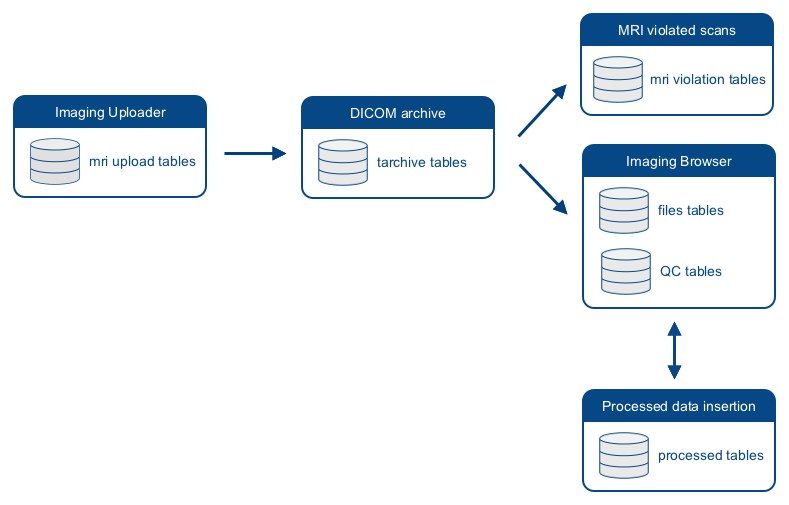
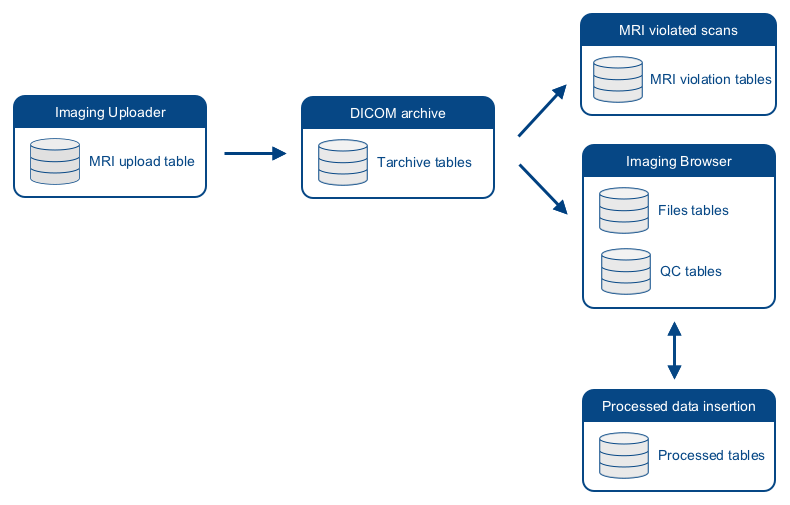
Incorporated some suggestions from KT WG meeting

diff --git a/docs/04-TechnicalInfrastructure.md b/docs/04-TechnicalInfrastructure.md
@@ -44,7 +44,7 @@ The database infrastructure is divided in six main components based on the
 ![overall_DB_structure](images/overall_DB_structure.png)
 
 
-### Imaging uploader database infrastructure
+### MRI upload table
 
 Summary information about the imaging upload status can be found in the 
   mri_upload table. This includes links to the DICOM archive tables (described 
@@ -55,7 +55,7 @@ Summary information about the imaging upload status can be found in the
 ![mri_upload_tables](images/mri_upload_tables.png)
 
 
-### DICOM archive database infrastructure
+### Tarchive tables
 
 The first step to insert a new imaging session into the database is the 
   insertion of the DICOM study. In the database, all information related to a
@@ -87,7 +87,7 @@ Note: the SessionID field of the tarchive table is populated once at least one
   in 4.2.2.
 
 
-### Imaging browser database infrastructure
+### Files tables
 
 The second step to insert a new imaging session into the database is the 
   conversion of the DICOM study into the MINC files that will be inserted based 
@@ -138,7 +138,7 @@ Once an image has been inserted into the database, it is possible to view it
   directly via the _Imaging Browser_ module under the _Imaging_ menu. 
 
 
-### MRI violated scans database infrastructure
+### MRI violation tables
 
 In the event a scan does not match any of the protocol mentioned in the 
   _mri_protocol_ table, LORIS automatically flags it as a violated scan.
@@ -163,7 +163,7 @@ In the event a scan does not match any of the protocol mentioned in the
 
 ![violated_tables](images/violated_tables.png)
 
-### Images quality control (QC) database infrastructure
+### Quality Control (QC) tables
 
 In the _Imaging Browser_ module, it is possible to view the images via
   _BrainBrowser_ and directly perform quality control of the images. The quality
@@ -182,7 +182,7 @@ In the _Imaging Browser_ module, it is possible to view the images via
 ![qc_tables](images/QC_tables.png)
 
 
-### Processed data insertion database infrastructure
+### Processed data tables
 
 Any native scan inserted into the files table can be processed and the output
   of this processing can be inserted into the database and linked to the native
